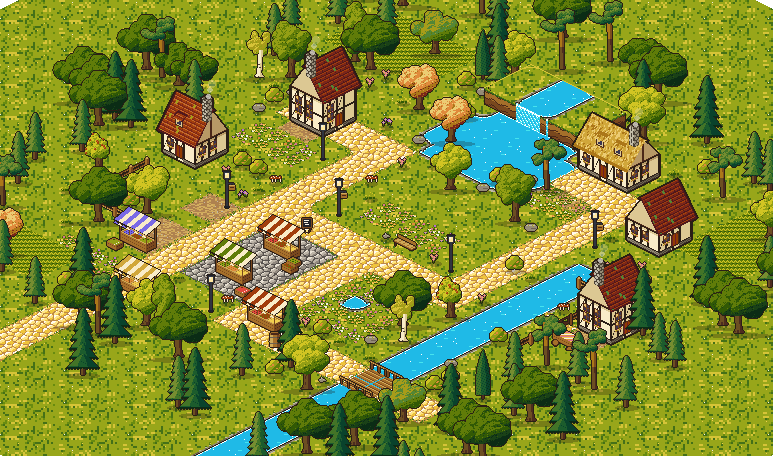
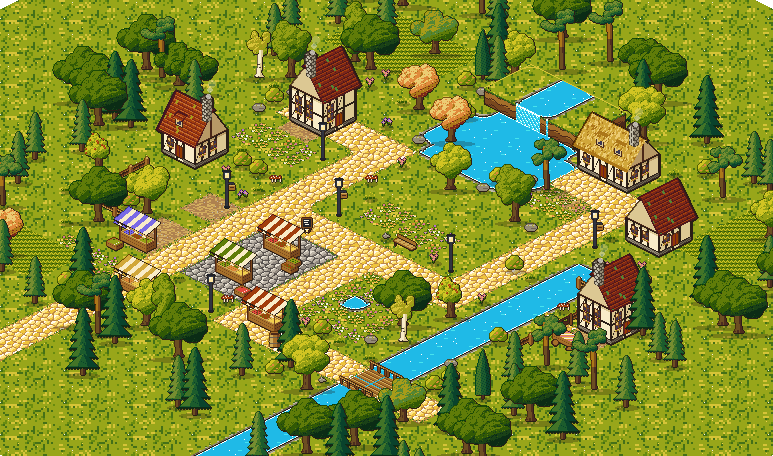
Outlines: selective, 2 px on buildings (outline round pick)
Lit sides get a dark shade of the colour inside, shadow sides keep the outline colour.
Sprite colours only; tiles/iso/ layout and names unchanged.

diff --git a/art/sprites.py b/art/sprites.py
@@ -48,7 +48,8 @@ PAL = {
 }
 RGB = {k: tuple(int(v[i:i + 2], 16) for i in (1, 3, 5)) + (255,) for k, v in PAL.items()}
 CLEAR = (0, 0, 0, 0)
-OUTLINE = {"style": "solid", "double": True}      # Sprite.outline's style; double: buildings get a 2 px line
+# Sprite.outline's style, picked 2026-10-11 (outline round): selective, and double = a 2 px line on buildings
+OUTLINE = {"style": "selout", "double": True}
 _DARK = {}
 
 

diff --git a/CLAUDE.md b/CLAUDE.md
@@ -98,6 +98,8 @@ existing values. If the format must change, bump `tinyTownVersion` in `js/format
   **Path** is the bright gold rounded stones and **Cobbles** the same stones in grey (`STONE`, `grey_cobble_px`).
   Palette swatches are drawn in the current view.
 * Houses: the `storybook` look (`LOOK` in `art/iso_tiles.py`).
+* Outlines: selective (`OUTLINE` in `art/sprites.py`): `out` on the shadow sides, a dark local shade on the lit
+  sides; 2 px on buildings. Clear outlines matter most: they keep objects apart from each other.
 * Trees: lots of variety, no two alike; leaves use hash speckle, not dither stripes.
 * Reference: the market village (`docs/market-village.png`) was rebuilt from a storybook-style picture of a market
   town; it is the quality bar.
